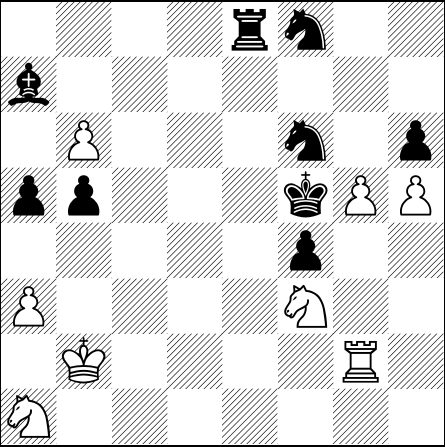
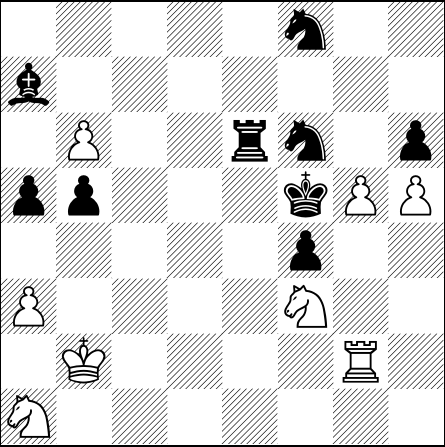
[automated] Regenerate text/pdf for chessboard

Changed region(s): [[0.4966, 0.2617, 0.6135, 0.3781], [0.4966, 0.0, 0.6135, 0.1163]]

diff --git a/default_filepath.tex b/default_filepath.tex
@@ -13,6 +13,6 @@
 \normalsize%
 \setchessboard{showmover=false}%
 \newgame%
-\fenboard{4rn2/b7/1P3n1p/pp3kPP/5p2/P4N2/1K4R1/N7 b - - 6 79}%
+\fenboard{5n2/b7/1P2rn1p/pp3kPP/5p2/P4N2/1K4R1/N7 w - - 7 80}%
 \chessboard%
 \end{document}
